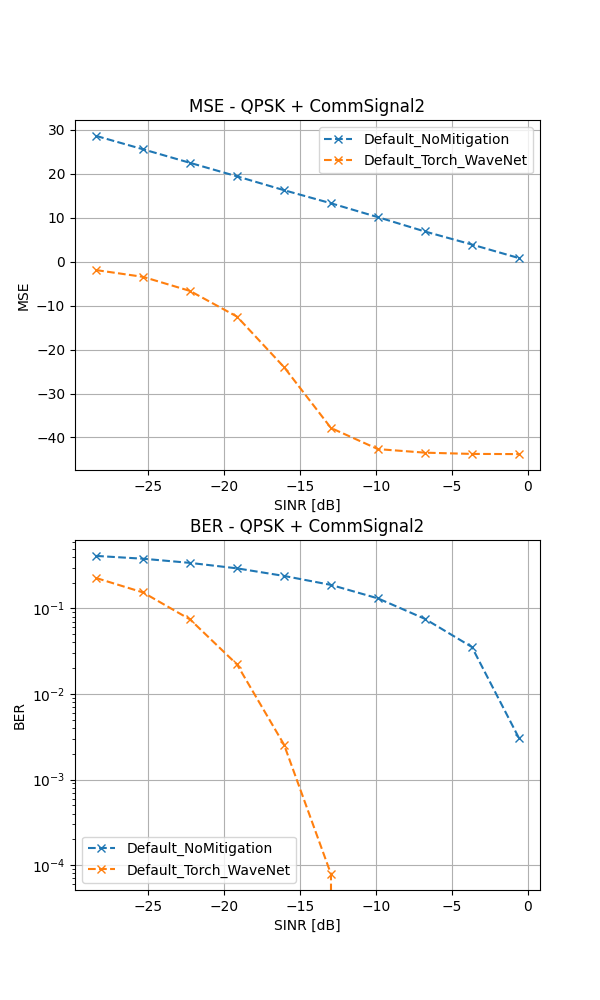
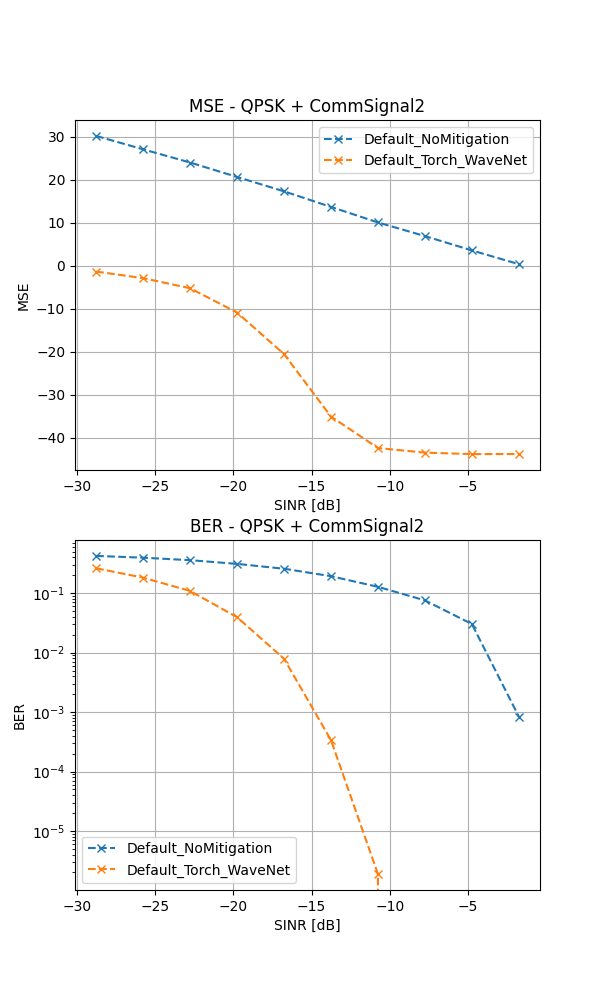
adjustment to saved sinr (save the actual sinr after applying phasor gain)

diff --git a/eval_utils/postprocessing_helpers.py b/eval_utils/postprocessing_helpers.py
@@ -94,24 +94,24 @@ def visualize_results(results, soi_type, interference_type, model_name="Default_
     ber_est = results["ber_est"]
 
     if smoothen:
-        sinr_all, mse_no_mitigation = get_smoothed(
+        sinr_db, mse_no_mitigation = get_smoothed(
             sinr_all, mse_no_mitigation, 11)
-        sinr_all, mse_est = get_smoothed(sinr_all, mse_est, 11)
-        sinr_all, ber_no_mitigation = get_smoothed(
+        sinr_db, mse_est = get_smoothed(sinr_all, mse_est, 11)
+        sinr_db, ber_no_mitigation = get_smoothed(
             sinr_all, ber_no_mitigation, 11)
-        sinr_all, ber_est = get_smoothed(sinr_all, ber_est, 11)
+        sinr_db, ber_est = get_smoothed(sinr_all, ber_est, 11)
     else:
-        sinr_all, mse_no_mitigation = zip(
+        sinr_db, mse_no_mitigation = zip(
             *sorted(dict(zip(sinr_all, mse_no_mitigation)).items()))
-        sinr_all, mse_est = zip(*sorted(dict(zip(sinr_all, mse_est)).items()))
-        sinr_all, ber_no_mitigation = zip(
+        sinr_db, mse_est = zip(*sorted(dict(zip(sinr_all, mse_est)).items()))
+        sinr_db, ber_no_mitigation = zip(
             *sorted(dict(zip(sinr_all, ber_no_mitigation)).items()))
-        sinr_all, ber_est = zip(*sorted(dict(zip(sinr_all, ber_est)).items()))
+        sinr_db, ber_est = zip(*sorted(dict(zip(sinr_all, ber_est)).items()))
 
     fig, axes = plt.subplots(2, 1, figsize=(6, 10))
-    axes[0].plot(sinr_all, mse_no_mitigation, "x--",
+    axes[0].plot(sinr_db, mse_no_mitigation, "x--",
                  label="Default_NoMitigation")
-    axes[0].plot(sinr_all, mse_est, "x--", label=model_name)
+    axes[0].plot(sinr_db, mse_est, "x--", label=model_name)
     axes[0].grid()
     axes[0].legend()
     axes[0].set_title(f"MSE - {soi_type} + {interference_type}")
@@ -119,9 +119,9 @@ def visualize_results(results, soi_type, interference_type, model_name="Default_
     axes[0].set_ylabel("MSE")
 
     axes[1].semilogy(
-        sinr_all, ber_no_mitigation, "x--", label="Default_NoMitigation")
+        sinr_db, ber_no_mitigation, "x--", label="Default_NoMitigation")
     axes[1].semilogy(
-        sinr_all, ber_est, "x--", label=model_name)
+        sinr_db, ber_est, "x--", label=model_name)
 
     axes[1].grid()
     axes[1].legend()

diff --git a/dataset_utils/generate_competition_eval_mixture.py b/dataset_utils/generate_competition_eval_mixture.py
@@ -9,6 +9,12 @@ from datetime import datetime
 from joblib import dump
 
 
+def get_db(p): return 10*np.log10(p)
+def get_pow(s): return np.mean(np.abs(s)**2, axis=-1)
+def get_sinr(s, i): return get_pow(s)/get_pow(i)
+def get_sinr_db(s, i): return get_db(get_sinr(s, i))
+
+
 samples_per_symbol = 16
 ofdm_symbol_len = 80  # Cyclic Prefix (16) + Subcarriers (64)
 sig_len = 40_960
@@ -66,6 +72,7 @@ def generate_competition_eval_mixture(soi_type, intrf_path_dir=Path('rf_datasets
             (num_test_cases * num_intrf_signals, sig_len), dtype=complex)
         msg_bits_numpy = np.zeros(
             (num_test_cases * num_intrf_signals, bits_per_stream))
+        sinr_db_numpy = np.zeros(num_test_cases * num_intrf_signals)
         for i, frame in enumerate(intrf_frames):
             sample_indices = np.random.randint(
                 frame.shape[0], size=(num_test_cases,))
@@ -83,10 +90,11 @@ def generate_competition_eval_mixture(soi_type, intrf_path_dir=Path('rf_datasets
                           * num_test_cases, :] = sig_soi.numpy()
             msg_bits_numpy[i * num_test_cases: (i + 1)
                            * num_test_cases, :] = msg_bits.numpy()
+            # save SINR case
+            sinr_db_numpy[i * num_test_cases: (i + 1) *
+                          num_test_cases] = get_sinr_db(sig_soi.numpy(), intrf_frame_snapshot.numpy() * gain_phasor.numpy())
             del sig_mixed
 
-        # save SINR case
-        sinr_db_numpy = sinr_db * np.ones((num_test_cases * num_intrf_signals))
         batch_data = [sig_mixed_numpy, sig_soi_numpy,
                       msg_bits_numpy, intrf_labels, sinr_db_numpy]
         mixture_filename = f'{soi_type}_sinr_{sinr_db}'

diff --git a/Default_Torch_WaveNet_inference.py b/Default_Torch_WaveNet_inference.py
@@ -89,7 +89,7 @@ def main(**kwargs):
 
         # visualize the results
         postprocessing_helpers.visualize_results(results, kwargs['soi_type'],
-                                                 kwargs['interference_type'], model_name="Default_Torch_WaveNet", smoothen=False)
+                                                 kwargs['interference_type'], model_name="Default_Torch_WaveNet")
 
 
 if __name__ == '__main__':
